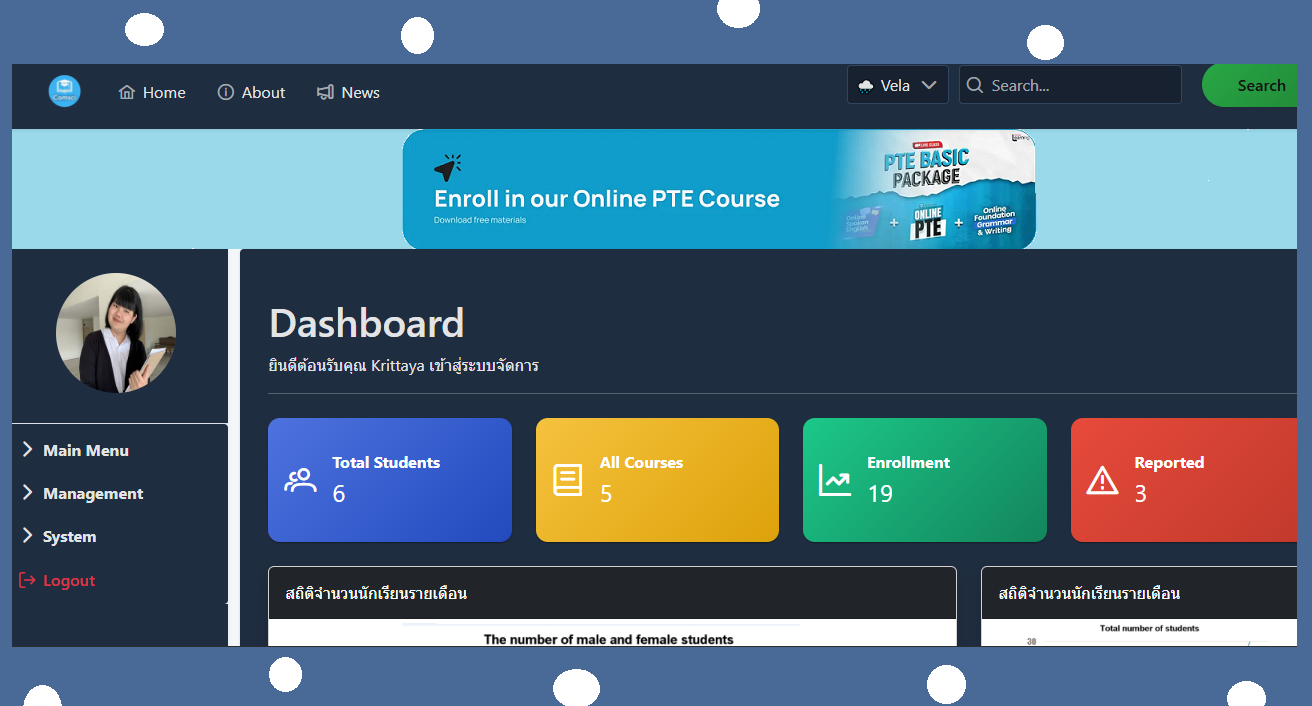
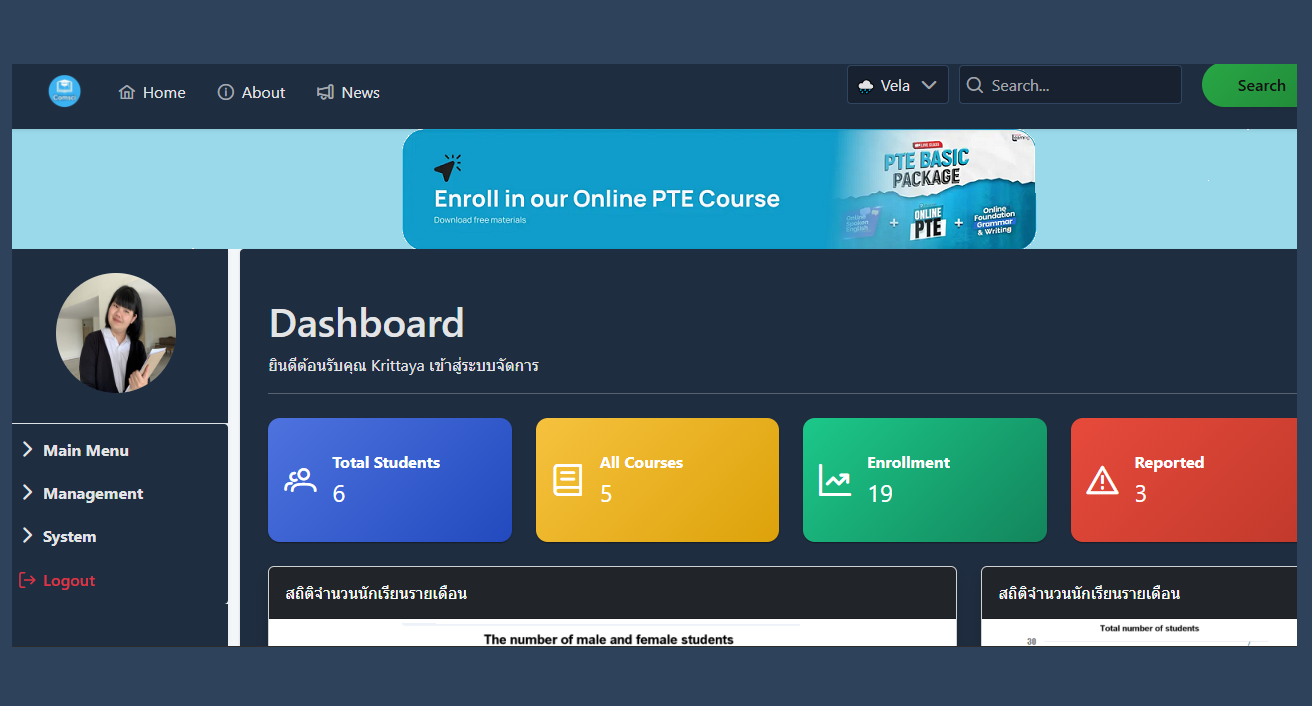
final comp2

Changed region(s): [[0.0, 0.0, 1.0, 1.0]]

diff --git a/src/component/Hero.jsx b/src/component/Hero.jsx
@@ -1,5 +1,5 @@
 import instagram from '../assets/instagram.png'
-import tiktok from '../assets/tiktok.png'
+import facebook from '../assets/fb2.png'
 import github from '../assets/github.png'
 import youtube from '../assets/youtube.png'
 import { ExternalLink } from "lucide-react";
@@ -11,7 +11,7 @@ import golfLight from "../assets/golf02.jpg"
 const Hero = ({ darkMode }) => {
     const socialIcons = [
         { icon: instagram, alt: 'Instagram', link:'https://www.instagram.com/golfringdove/' },
-        { icon: tiktok, alt: 'tiktok', link:'https://github.com/SmileCat42' },
+        { icon: facebook, alt: 'facebook', link:'https://web.facebook.com/aloha.golfring' },
         { icon: github, alt: 'github', link:'https://github.com/SmileCat42' },
         { icon: youtube, alt: 'youtube', link:'https://www.youtube.com/@golfmaxss' }
     ];
@@ -62,7 +62,7 @@ const Hero = ({ darkMode }) => {
                                         className={`w-8 h-8 sm:w-10 sm:h-10
                                 object-contain ${darkMode
                                                 ? ''
-                                                : 'filter brightness-75'}`} />
+                                                : 'filter brightness-110'}`} />
                                 </a>
                             ))}
                         </div>

diff --git a/src/component/Footer.jsx b/src/component/Footer.jsx
@@ -1,4 +1,4 @@
-import { FaGithub, FaExternalLinkAlt } from 'react-icons/fa'
+import { FaGithub, FaExternalLinkAlt, FaLinkedin } from 'react-icons/fa'
 import { FaFacebook } from 'react-icons/fa'
 import { FaLine } from 'react-icons/fa'
 import { FaHeart } from 'react-icons/fa'
@@ -54,7 +54,7 @@ const Footer = ({ darkMode }) => {
                     </a>
 
                     <a 
-                    href="https://web.facebook.com/aloha.golfring"
+                    href="https://www.linkedin.com/in/krittaya-b44b49401/"
                     className="w-10 h-10 rounded-full flex items-center
                     justify-center hover:scale-110 transition-all
                     hover:bg-linear-to-r hover:from-yellow-300
@@ -62,7 +62,7 @@ const Footer = ({ darkMode }) => {
                     bg-[#374151] dark:bg-[#f3f4f6]
                     text-white dark:text-[#374151]"
                     target='_blank'>
-                        <FaFacebook/>
+                        <FaLinkedin/>
                     </a>
 
                     <a 

diff --git a/src/component/Projects.jsx b/src/component/Projects.jsx
@@ -85,9 +85,8 @@ const Projects = ({ darkMode }) => {
                                 <img
                                     src={project.image}
                                     alt={project.title}
-                                    className='w-full h-full object-cover
-                          group-hover:scale-110 transition-transform
-                          duration-500'/>
+                                    className={`w-full h-full object-cover group-hover:scale-110 transition-all duration-500 
+                ${darkMode ? 'brightness-85' : 'saturate-75 brightness-95'}`}/>
                             </div>
                             <div className='p-4'>
                                 <h3

diff --git a/src/component/Contact.jsx b/src/component/Contact.jsx
@@ -37,7 +37,7 @@ export const Contact = ({ darkMode }) => {
                 }}>
                     Get In <span
                     style={{
-            background: 'linear-gradient(to right, #f97316, #f59e0b)',
+            background: 'linear-gradient(to right, #f9b116, #f3b03b)',
             WebkitBackgroundClip: 'text',
             backgroundClip: 'text',
             color: 'transparent'
